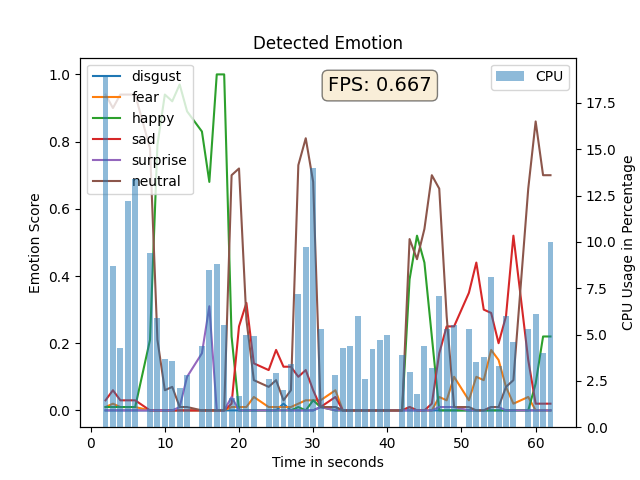
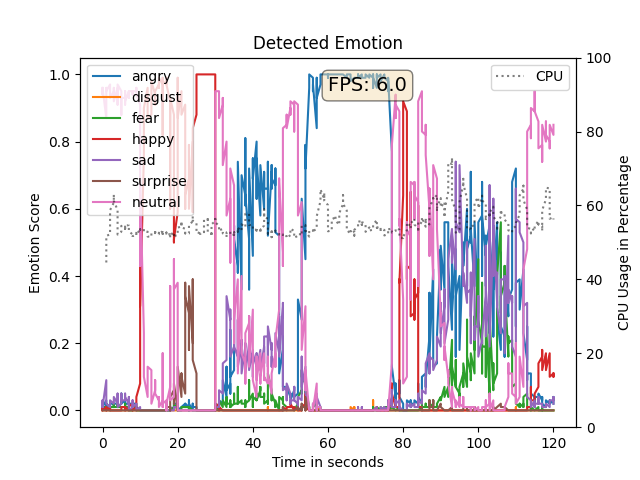
fixed faceAnalyser

diff --git a/Problem6/faceAnalyser.py b/Problem6/faceAnalyser.py
@@ -9,16 +9,11 @@ import time
 import sys
 
 def main():
-    print(sys.argv[1].split('.'))
     face_detector = FER(mtcnn=False)
     
-    # record = {'timestamp': [], 'fps': [], 'cpu_percentage': [], 'angry': [], 'disgust': [], 'fear': [], 'happy': [], 'sad': [], 'surprise': [], 'neutral': []}
     record = {'timestamp': [], 'angry': [], 'disgust': [], 'fear': [], 'happy': [], 'sad': [], 'surprise': [], 'neutral': []}
     cpu_list = []
     fps_list = []
-
-   
-    #Get image seqence
 
     #Use camera feed if no file is specified
     capture = None
@@ -43,10 +38,13 @@ def main():
             frameCount += 1
             print(emotion_data)
             record['timestamp'].append(int(time.time() - time_start))
-            cpu_list.append(psutil.cpu_percent(interval=1))
+            cpu_list.append(psutil.cpu_percent())
             # record['cpu_percentage'].append(psutil.cpu_percent(interval=1))
+            try:
+                fps_list.append(frameCount/int(time.time() - time_start))
 
-            fps_list.append(frameCount/int(time.time() - time_start))
+            except:
+                print('failed to append to fps_list')
             # record['fps'].append(frameCount/int(time.time() - time_start))
 
             for emo in emotion_data.keys():
@@ -55,40 +53,30 @@ def main():
                 break
     cv2.destroyAllWindows()
 
-
-    # else:
-    #     capture = cv2.VideoCapture(sys.argv[1])
-    #     input_video = Video(sys.argv[1])
-    #     processing_data = input_video.analyze(face_detector, display=True)
-
-
-
-    #     emo_data = input_video.to_pandas(processing_data)
-    #     emo_data = input_video.get_first_face(emo_data)
-    #     emo_data = input_video.get_emotions(emo_data)
-
-    #     ax = emo_data.plot(figsize=(20, 8))
-
-    #     fig = ax.get_figure()
-    #     ax.ylabel('Emotion Intensity Value')
-    #     ax.xlabel('Video Frame')
-    #     ax.legend()
-    #     ax.savefig(f'{sys.argv[1]}_plot.png')
-
     df = pd.DataFrame.from_dict(record)
     df = pd.DataFrame.set_index(df, 'timestamp')
     print(df.head())
 
     fig, ax1 = plt.subplots()
 
-    for column in df.columns[1:]:
+    for column in df.columns:
         ax1.plot(df.index, df[column], label=column, zorder=2)
 
     ax1.set_xlabel('Time in seconds')
     ax1.set_ylabel('Emotion Score')
 
+    # Get rolling average of CPU
+    smoothed_CPU = []
+    window = 20
+    for i in range(len(cpu_list) - window + 1):
+        # Calculate the average of current window
+        window_average = sum(cpu_list[i:i+window]) / window
+        # Append to the list of moving averages
+        smoothed_CPU.append(window_average)
+
+
     ax2 = ax1.twinx()
-    ax2.bar(df.index, cpu_list, alpha=0.5, label='CPU', zorder=1)
+    ax2.plot(df.index[window-1:], smoothed_CPU, '-k', alpha=1, label='CPU', zorder=1)
     ax2.set_ylabel('CPU Usage in Percentage')
 
     textstr = f'FPS: {round(fps_list[0], 3)}'
@@ -100,10 +88,11 @@ def main():
     plt.title('Detected Emotion')
     ax1.legend(loc='upper left')
     ax2.legend(loc='upper right')
+    ax2.set_ylim(0, 100)
     if len(sys.argv) <= 1:
         plt.savefig(f"./Results/{str(time.time())}.png")
     else: 
-        plt.savefig(f"./Results/{sys.argv[1].split('.')[0]}.png")
+        plt.savefig("./Results/latest.png")
 
 if __name__ == '__main__':
     main()
